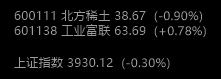
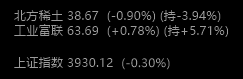
bugfix

Changed region(s): [[0.0543, 0.3038, 0.9502, 0.481], [0.0543, 0.1266, 0.9231, 0.2785], [0.0543, 0.7089, 0.7873, 0.8861]]

diff --git a/main.cpp b/main.cpp
@@ -669,9 +669,9 @@ static Layout GetLayout(int W) {
         L.rows[i].cost = Rect(L.rows[i].del.X - S(5) - S(kRowBtnW), rowY + S(3), S(kRowBtnW), S(kRowBtnH));
     }
     L.idxY = S(kRowY0) + n * S(kRowStep) - S(3) + S(5);
-    // 与 Qt 版对齐修正一致: 指数行比个股行多 3px 左缩进
-    L.idxNameX = S(12) + S(3);
-    L.idxValueX = S(87) + S(3);
+    // GDI+ 渲染下数字与汉字墨迹边距相同, 指数列与个股列同起点即可精确对齐
+    L.idxNameX = S(12);
+    L.idxValueX = S(76);
     return L;
 }
 
@@ -709,11 +709,12 @@ static void PaintFull(Graphics& g, int W, int H) {
         const StockItem& it = g_st.items[i];
         int rowY = S(kRowY0) + (int)i * S(kRowStep);
 
-        DrawLabel(g, it.display, Rect(S(12), rowY, S(70), S(kRowH)), g_fontUI, ColWhite());
+        DrawLabel(g, it.display, Rect(S(12), rowY, S(58), S(kRowH)), g_fontUI, ColWhite());
 
         // 价格区: [名称 现价 (涨跌)] 同色 + [ (持x%) ] 独立颜色
-        int priceX = S(87);
-        g.SetClip(RectF((REAL)priceX, (REAL)rowY, REAL(S(240)), REAL(S(kRowH))));
+        int priceX = S(76);
+        int clipW = L.rows[i].cost.X - S(6) - priceX;   // 到成本按钮左侧为止, 避免持仓文字被裁
+        g.SetClip(RectF((REAL)priceX, (REAL)rowY, REAL(clipW), REAL(S(kRowH))));
         double rate = it.prev > 0 ? (it.curr - it.prev) / it.prev * 100.0 : 0.0;
         Color mainCol = it.hasData ? RateColor(rate) : ColWhite();
         std::wstring main = it.hasData ? (it.name + L" " + Fmt2(it.curr) + L" " + FmtRate(rate))
@@ -738,7 +739,7 @@ static void PaintFull(Graphics& g, int W, int H) {
             g.MeasureString(main.c_str(), (INT)main.size(), g_fontUI, PointF(0, 0), &sf, &m);
             g.DrawString(cs.c_str(), (INT)cs.size(), g_fontUI,
                          RectF((REAL)priceX + m.Width, (REAL)rowY,
-                               REAL(S(240) - (int)m.Width), REAL(S(kRowH))), &sf, &br);
+                               REAL(clipW - (int)m.Width), REAL(S(kRowH))), &sf, &br);
         }
         g.ResetClip();
 
@@ -952,8 +953,7 @@ static void RebuildCompact() {
     for (const StockItem& it : g_st.items) {
         CompactLine cl;
         if (it.hasData) {
-            cl.main = it.display + L" ";
-            if (!it.name.empty()) cl.main += it.name + L" ";
+            cl.main = it.name.empty() ? L"" : it.name + L" ";
             cl.main += Fmt2(it.curr) + L" ";
             double rate = it.prev > 0 ? (it.curr - it.prev) / it.prev * 100.0 : 0.0;
             cl.rate = FmtRate(rate);
@@ -961,10 +961,10 @@ static void RebuildCompact() {
             cl.hasRate = true;
             if (it.cost > 0 && it.curr > 0) {
                 double cr = (it.curr - it.cost) / it.cost * 100.0;
-                cl.main += L"(持" + std::wstring(cr > 0 ? L"+" : L"") + Fmt2(cr) + L"%) ";
+                cl.rate += L" (持" + std::wstring(cr > 0 ? L"+" : L"") + Fmt2(cr) + L"%)";
             }
         } else {
-            cl.main = it.display + L" 加载中...";
+            cl.main = L"加载中...";
         }
         g_st.compactLines.push_back(cl);
     }
@@ -1278,6 +1278,7 @@ static void ShowCostDialog(int idx) {
     wc.lpfnWndProc = DlgProc;
     wc.hInstance = g_hInst;
     wc.lpszClassName = APP_DLGCLS;
+    wc.hCursor = LoadCursorW(NULL, IDC_ARROW);
     RegisterClassW(&wc);
 
     g_dlg.input.rc = Rect(S(14), S(56), w - S(28), S(24));
@@ -1550,6 +1551,7 @@ int WINAPI wWinMain(HINSTANCE hInst, HINSTANCE, PWSTR, int nCmdShow) {
     wc.lpfnWndProc = WndProc;
     wc.hInstance = hInst;
     wc.lpszClassName = APP_CLASS;
+    wc.hCursor = LoadCursorW(NULL, IDC_ARROW);   // 不设置的话会一直显示启动转圈光标
     RegisterClassW(&wc);
 
     HWND hwnd = CreateWindowExW(WS_EX_LAYERED | WS_EX_TOOLWINDOW | WS_EX_TOPMOST,
